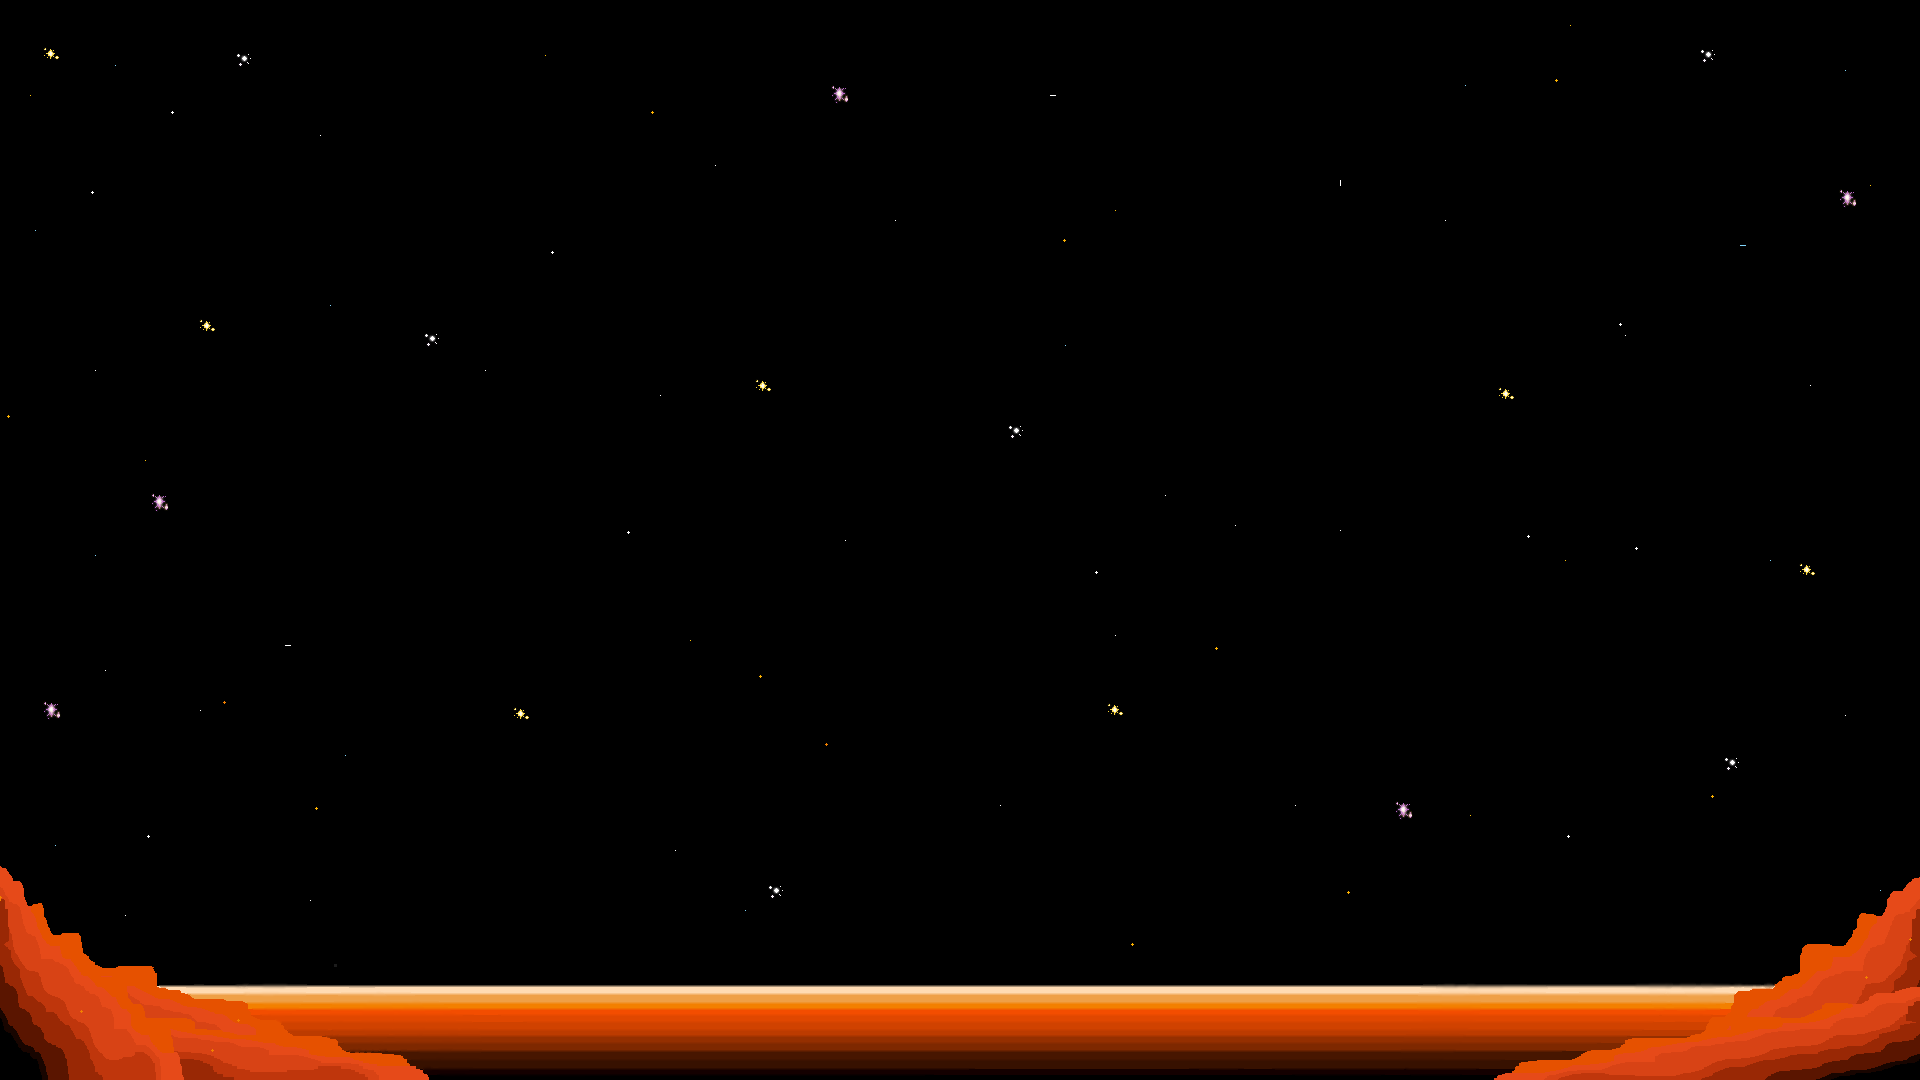
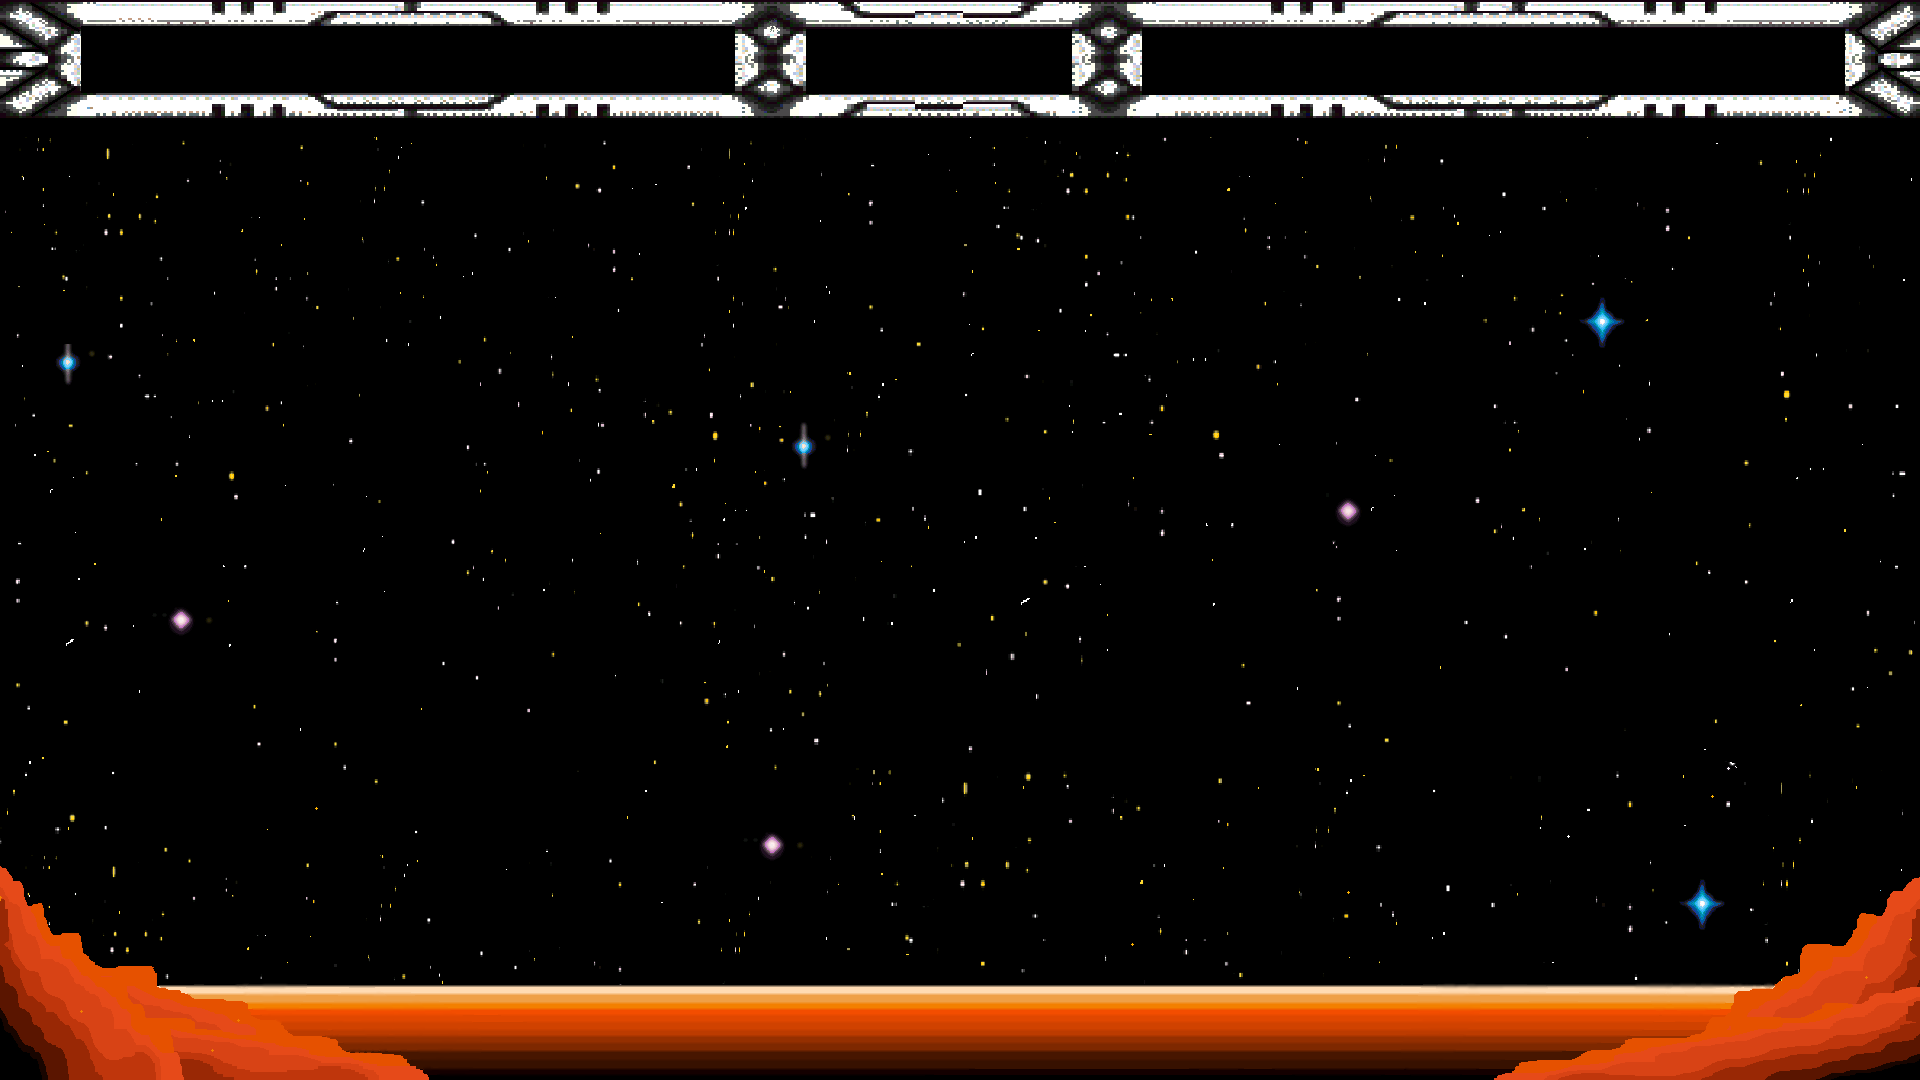
update

diff --git a/Jogo/Componentes/Objetos/BarraVida.java b/Jogo/Componentes/Objetos/BarraVida.java
@@ -57,27 +57,27 @@ public class BarraVida {
 		referencia = new ImageIcon("barrasVida//barravida_0.png");
 		barraVida0 = referencia.getImage();
 
-		graficos.drawImage(barraVida10, 15, 40, null);
+		graficos.drawImage(barraVida10, 70, 40, null);
 		if (jogador.getVida() == 9) {
-			graficos.drawImage(barraVida9, 15, 40, null);
+			graficos.drawImage(barraVida9, 70, 40, null);
 		} else if (jogador.getVida() == 8) {
-			graficos.drawImage(barraVida8, 15, 40, null);
+			graficos.drawImage(barraVida8, 70, 40, null);
 		} else if (jogador.getVida() == 7) {
-			graficos.drawImage(barraVida7, 15, 40, null);
+			graficos.drawImage(barraVida7, 70, 40, null);
 		} else if (jogador.getVida() == 6) {
-			graficos.drawImage(barraVida6, 15, 40, null);
+			graficos.drawImage(barraVida6, 70, 40, null);
 		} else if (jogador.getVida() == 5) {
-			graficos.drawImage(barraVida5, 15, 40, null);
+			graficos.drawImage(barraVida5, 70, 40, null);
 		} else if (jogador.getVida() == 4) {
-			graficos.drawImage(barraVida4, 15, 40, null);
+			graficos.drawImage(barraVida4, 70, 40, null);
 		} else if (jogador.getVida() == 3) {
-			graficos.drawImage(barraVida3, 15, 40, null);
+			graficos.drawImage(barraVida3, 70, 40, null);
 		} else if (jogador.getVida() == 2) {
-			graficos.drawImage(barraVida2, 15, 40, null);
+			graficos.drawImage(barraVida2, 70, 40, null);
 		} else if (jogador.getVida() == 1) {
-			graficos.drawImage(barraVida1, 15, 40, null);
+			graficos.drawImage(barraVida1, 70, 40, null);
 		} else if (jogador.getVida() <= 0) {
-			graficos.drawImage(barraVida0, 15, 40, null);
+			graficos.drawImage(barraVida0, 70, 40, null);
 			jogador.setVisivel(false);
 		}
 	}
@@ -117,27 +117,27 @@ public class BarraVida {
 		referencia = new ImageIcon("barrasVida//barravida_0.png");
 		barraVida0 = referencia.getImage();
 
-		graficos.drawImage(barraVida10, 15, 800, null);
+		graficos.drawImage(barraVida10, 295, 40, null);
 		if (jogador.getVida() == 9) {
-			graficos.drawImage(barraVida9, 15, 800, null);
+			graficos.drawImage(barraVida9, 295, 40, null);
 		} else if (jogador.getVida() == 8) {
-			graficos.drawImage(barraVida8, 15, 800, null);
+			graficos.drawImage(barraVida8, 295, 40, null);
 		} else if (jogador.getVida() == 7) {
-			graficos.drawImage(barraVida7, 15, 800, null);
+			graficos.drawImage(barraVida7, 295, 40, null);
 		} else if (jogador.getVida() == 6) {
-			graficos.drawImage(barraVida6, 15, 800, null);
+			graficos.drawImage(barraVida6, 295, 40, null);
 		} else if (jogador.getVida() == 5) {
-			graficos.drawImage(barraVida5, 15, 800, null);
+			graficos.drawImage(barraVida5, 295, 40, null);
 		} else if (jogador.getVida() == 4) {
-			graficos.drawImage(barraVida4, 15, 800, null);
+			graficos.drawImage(barraVida4, 295, 40, null);
 		} else if (jogador.getVida() == 3) {
-			graficos.drawImage(barraVida3, 15, 800, null);
+			graficos.drawImage(barraVida3, 295, 40, null);
 		} else if (jogador.getVida() == 2) {
-			graficos.drawImage(barraVida2, 15, 800, null);
+			graficos.drawImage(barraVida2, 295, 40, null);
 		} else if (jogador.getVida() == 1) {
-			graficos.drawImage(barraVida1, 15, 800, null);
+			graficos.drawImage(barraVida1, 295, 40, null);
 		} else if (jogador.getVida() <= 0) {
-			graficos.drawImage(barraVida0, 15, 800, null);
+			graficos.drawImage(barraVida0, 295, 40, null);
 			jogador.setVisivel(false);
 		}
 	}

diff --git a/Jogo/Componentes/Fases/Fase.java b/Jogo/Componentes/Fases/Fase.java
@@ -57,28 +57,27 @@ public class Fase extends JPanel {
 
 		graficos.setFont(fonte);
 		graficos.setColor(Color.WHITE);
-		graficos.drawString("Fase " + faseAtual, 700, 50);
+		graficos.drawString("LEVEL " + faseAtual, 700, 50);
 
 		graficos.setFont(fonte2);
 		graficos.setColor(Color.WHITE);
-		graficos.drawString(nomeJogador1, 15, 30);
+		graficos.drawString(nomeJogador1, 80, 40);
 		barra.paintBarraVida(graficos, jogador1);
 
 		if (doisJogadores) {
-			graficos.drawString("-- Pontuações -- ", 1325, 35);
-			graficos.drawString(nomeJogador1 + " = " + Jogador1.pontuacaoJogador1, 1350, 60);
-
-			graficos.drawString(nomeJogador2 + " = " + Jogador2.pontuacaoJogador2, 1350, 90);
-		} else if (doisJogadores == false) {
-			graficos.drawString("-- Pontuações -- ", 1325, 35);
-			graficos.drawString(nomeJogador1 + " = " + Jogador1.pontuacaoJogador1, 1350, 50);
+			graficos.drawString("SCORE", 950, 35);
+			graficos.drawString(nomeJogador1 + " = " + Jogador1.pontuacaoJogador1, 950, 55);
+			graficos.drawString(nomeJogador2 + " = " + Jogador2.pontuacaoJogador2, 950, 70);
+		} else {
+			graficos.drawString("SCORE", 950, 45);
+			graficos.drawString(nomeJogador1 + " = " + Jogador1.pontuacaoJogador1, 950, 60);
 		}
 
 		if (doisJogadores) {
-			if (nomeJogador1 != null && nomeJogador1 != null) {
+			if (nomeJogador1 != null && nomeJogador2 != null) {
 				graficos.setFont(fonte2);
 				graficos.setColor(Color.WHITE);
-				graficos.drawString(nomeJogador2, 15, 790);
+				graficos.drawString(nomeJogador2, 305, 40);
 				barra.paintBarraVida(graficos, jogador2);
 			}
 		}
@@ -263,13 +262,13 @@ public class Fase extends JPanel {
 
 	// Colisões de tiros(naves) com o Chefão:
 	public void colisoesTiroEmDrakthar(Drakthar drakthar, Jogador1 jogador1, Jogador2 jogador2, int x) {
-		
+
 		if (drakthar.getX() == x) {
 			List<TiroNave> tiros1 = jogador1.getTiros();
 			for (int j = 0; j < tiros1.size(); j++) {
 				drakthar.colisaoDraktharTiro(jogador1, j);
 			}
-	
+
 			List<TiroNave> tiros2 = jogador2.getTiros();
 			for (int j = 0; j < tiros2.size(); j++) {
 				drakthar.colisaoDraktharTiro(jogador2, j);

diff --git a/Jogo/Componentes/Jogadores/Jogador.java b/Jogo/Componentes/Jogadores/Jogador.java
@@ -41,7 +41,7 @@ public abstract class Jogador {
         if (x + dx >= 0 && x + dx + largura / 2 <= 1000) {
             x += dx;
         }
-        if (y + dy >= 0 && y + dy + altura <= 850) {
+        if (y + dy >= 95 && y + dy + altura <= 850) {
             y += dy;
         }
     }

diff --git a/Jogo/Container.java b/Jogo/Container.java
@@ -17,6 +17,7 @@ public class Container extends JFrame {
     private boolean reiniciaJogo = false;
 
     public Container() {
+        setUndecorated(true);
         setTitle("Br-Callister");
         setDefaultCloseOperation(JFrame.EXIT_ON_CLOSE);
         setLocationRelativeTo(null);
